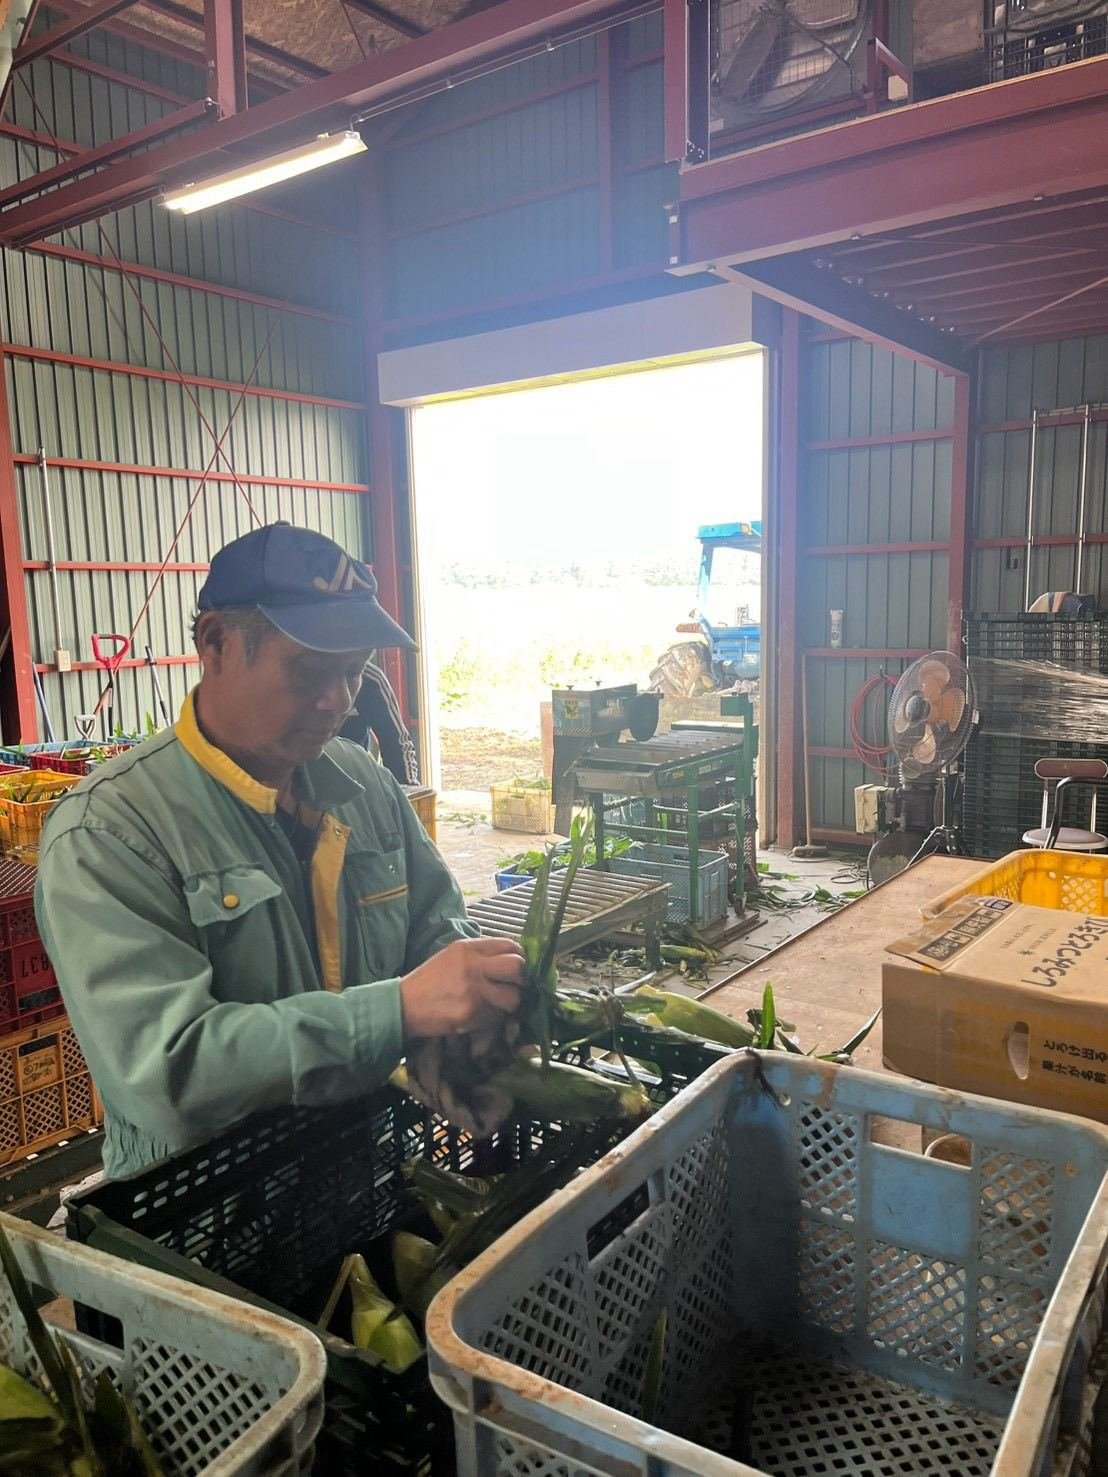
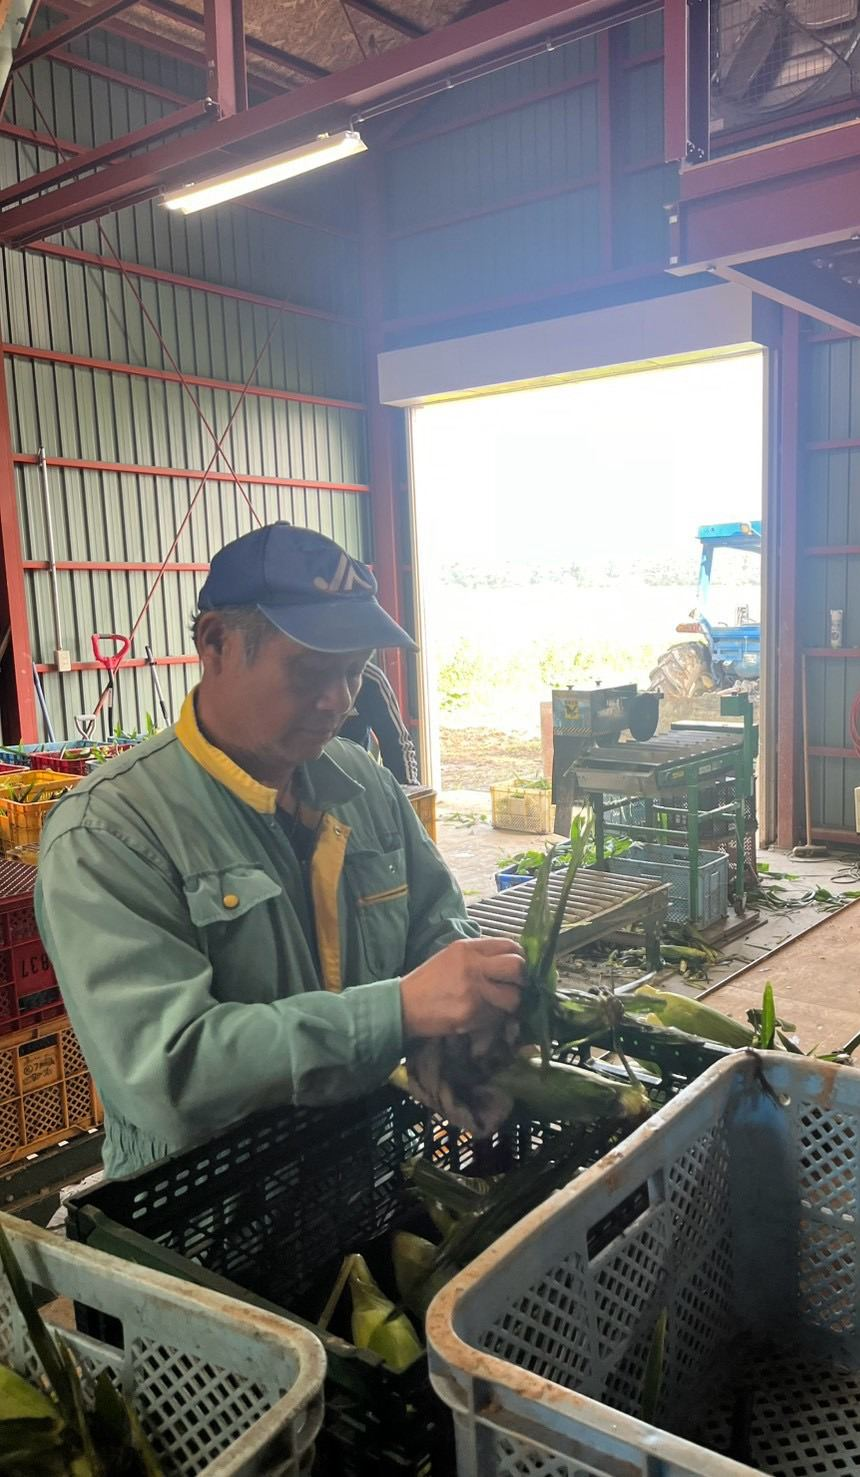
収穫期間を8月上旬〜10月中旬に修正・商標「しろみつとろきび」の名称と写る写真を除去

diff --git a/index.html b/index.html
@@ -4,7 +4,7 @@
 <meta charset="UTF-8">
 <meta name="viewport" content="width=device-width, initial-scale=1">
 <title>緊急出荷 生で食べるフルーツコーン味来 正規品10本 江別滝農園</title>
-<meta name="description" content="江別・滝農園のフルーツコーン「味来（みらい）」今季ラスト便。収穫期間わずか約2か月の正規品を10本4,000円（税込・送料別）で全国発送。生のままかじれる甘さです。">
+<meta name="description" content="江別・滝農園のフルーツコーン「味来（みらい）」今季ラスト便。収穫期間わずか約2か月半の正規品を10本4,000円（税込・送料別）で全国発送。生のままかじれる甘さです。">
 <meta property="og:title" content="緊急出荷 生で食べるフルーツコーン味来 正規品10本">
 <meta property="og:description" content="江別・滝農園のフルーツコーン今季ラスト便。正規品10本4,000円・全国発送。">
 <meta property="og:type" content="website">
@@ -336,7 +336,7 @@ button.cta{cursor:pointer;font-family:inherit;margin:8px auto 0}
 <section id="status">
   <div class="wrap reveal">
     <div class="card"><div class="ep">EPISODE 01 ／ STATUS REPORT</div><h2>状況報告。<br><em>畑が、終わる。</em></h2></div>
-    <p class="lead">滝農園のトウモロコシの収穫は、例年8月中旬から10月初旬まで。今年の畑も、残りわずかです。最後に採れる正規品を、なくなり次第終了でお届けします。</p>
+    <p class="lead">滝農園のトウモロコシの収穫は、例年8月上旬から10月中旬まで。今年の畑も、残りわずかです。最後に採れる正規品を、なくなり次第終了でお届けします。</p>
     <div class="status">
       <div><div class="k">VARIETY</div><div class="v">味来<small>みらい</small></div></div>
       <div><div class="k">ORIGIN</div><div class="v">江別市<br>滝農園<small>北海道</small></div></div>
@@ -358,8 +358,8 @@ button.cta{cursor:pointer;font-family:inherit;margin:8px auto 0}
         <ul>
           <li>1本の茎から採るのは、いちばんおいしい<strong>「1番キビ」だけ</strong></li>
           <li>「味来」は皮が柔らかく扱いが難しいため、<strong>一般にはあまり出回らない品種</strong>です</li>
-          <li>収穫できるのは例年8月中旬から10月初旬までの約2か月だけ</li>
-          <li>今季の収穫は10月初旬で終わります。これが<strong>今年最後の出荷</strong>です</li>
+          <li>収穫できるのは例年8月上旬から10月中旬までの約2か月半だけ</li>
+          <li>今季の収穫は10月中旬で終わります。これが<strong>今年最後の出荷</strong>です</li>
         </ul>
       </div>
       <div class="box pu">
@@ -398,7 +398,7 @@ button.cta{cursor:pointer;font-family:inherit;margin:8px auto 0}
       <figure><img src="img/corn-g3.jpg" alt="皮付きのまま出荷" loading="lazy" width="600" height="600"><figcaption><b>No.03</b>皮付きのまま出荷</figcaption></figure>
       <figure><img src="img/corn-g4.jpg" alt="選別機で仕分け" loading="lazy" width="600" height="600"><figcaption><b>No.04</b>選別機で仕分け</figcaption></figure>
       <figure><img src="img/corn-g5.jpg" alt="1本ずつ手で確認" loading="lazy" width="600" height="600"><figcaption><b>No.05</b>1本ずつ手で確認</figcaption></figure>
-      <figure><img src="img/corn-g6.jpg" alt="しろみつとろきび" loading="lazy" width="600" height="600"><figcaption><b>No.06</b>しろみつとろきび</figcaption></figure>
+      <figure><img src="img/corn-g6.jpg" alt="仕分けを終えたとうもろこしのコンテナ" loading="lazy" width="600" height="600"><figcaption><b>No.06</b>仕分けを終えて</figcaption></figure>
     </div>
   </div>
 </div>
@@ -415,8 +415,8 @@ button.cta{cursor:pointer;font-family:inherit;margin:8px auto 0}
       </figure>
       <div>
         <p class="lead">札幌のとなり町、江別市篠津。家族で130年続く滝農園を継ぐのは、5代目の瀧大洲さん。父・瀧一芳さんとともに、1本の茎から1番キビだけを採るトウモロコシづくりを続けています。</p>
-        <p class="lead" style="margin-top:14px">収穫は夜明けから。日中に茎へ蓄えた栄養は、夜のあいだに実へ移ります。だから一番甘いのは早朝。1時間で約2,500本を手でもぎ取ります。あふれる白い蜜から付いた名は「しろみつとろきび」。</p>
-        <p class="lead" style="margin-top:14px">1年のうち約2か月しか味わえないこの甘さを、畑が終わる前に1人でも多くの方へ。それがこの緊急出荷の目的です。</p>
+        <p class="lead" style="margin-top:14px">収穫は夜明けから。日中に茎へ蓄えた栄養は、夜のあいだに実へ移ります。だから一番甘いのは早朝。1時間で約2,500本を手でもぎ取ります。もぎたてを割ると、白い蜜があふれ出します。</p>
+        <p class="lead" style="margin-top:14px">1年のうち約2か月半しか味わえないこの甘さを、畑が終わる前に1人でも多くの方へ。それがこの緊急出荷の目的です。</p>
       </div>
     </div>
   </div>
@@ -506,7 +506,7 @@ button.cta{cursor:pointer;font-family:inherit;margin:8px auto 0}
       <tr><th>価格</th><td><strong>4,000円（税込）</strong>＋送料</td></tr>
       <tr><th>発送元</th><td>北海道札幌市</td></tr>
       <tr><th>販売期間</th><td><strong>2026年10月11日（日）24:00まで</strong></td></tr>
-      <tr><th>発送時期</th><td>収穫にあわせて順次発送（10月初旬の収穫終了まで）</td></tr>
+      <tr><th>発送時期</th><td>収穫にあわせて順次発送（10月中旬の収穫終了まで）</td></tr>
       <tr><th>配送</th><td>ヤマト運輸 クール便（冷蔵）80サイズ</td></tr>
       <tr><th>日時指定</th><td>できません</td></tr>
     </table>
